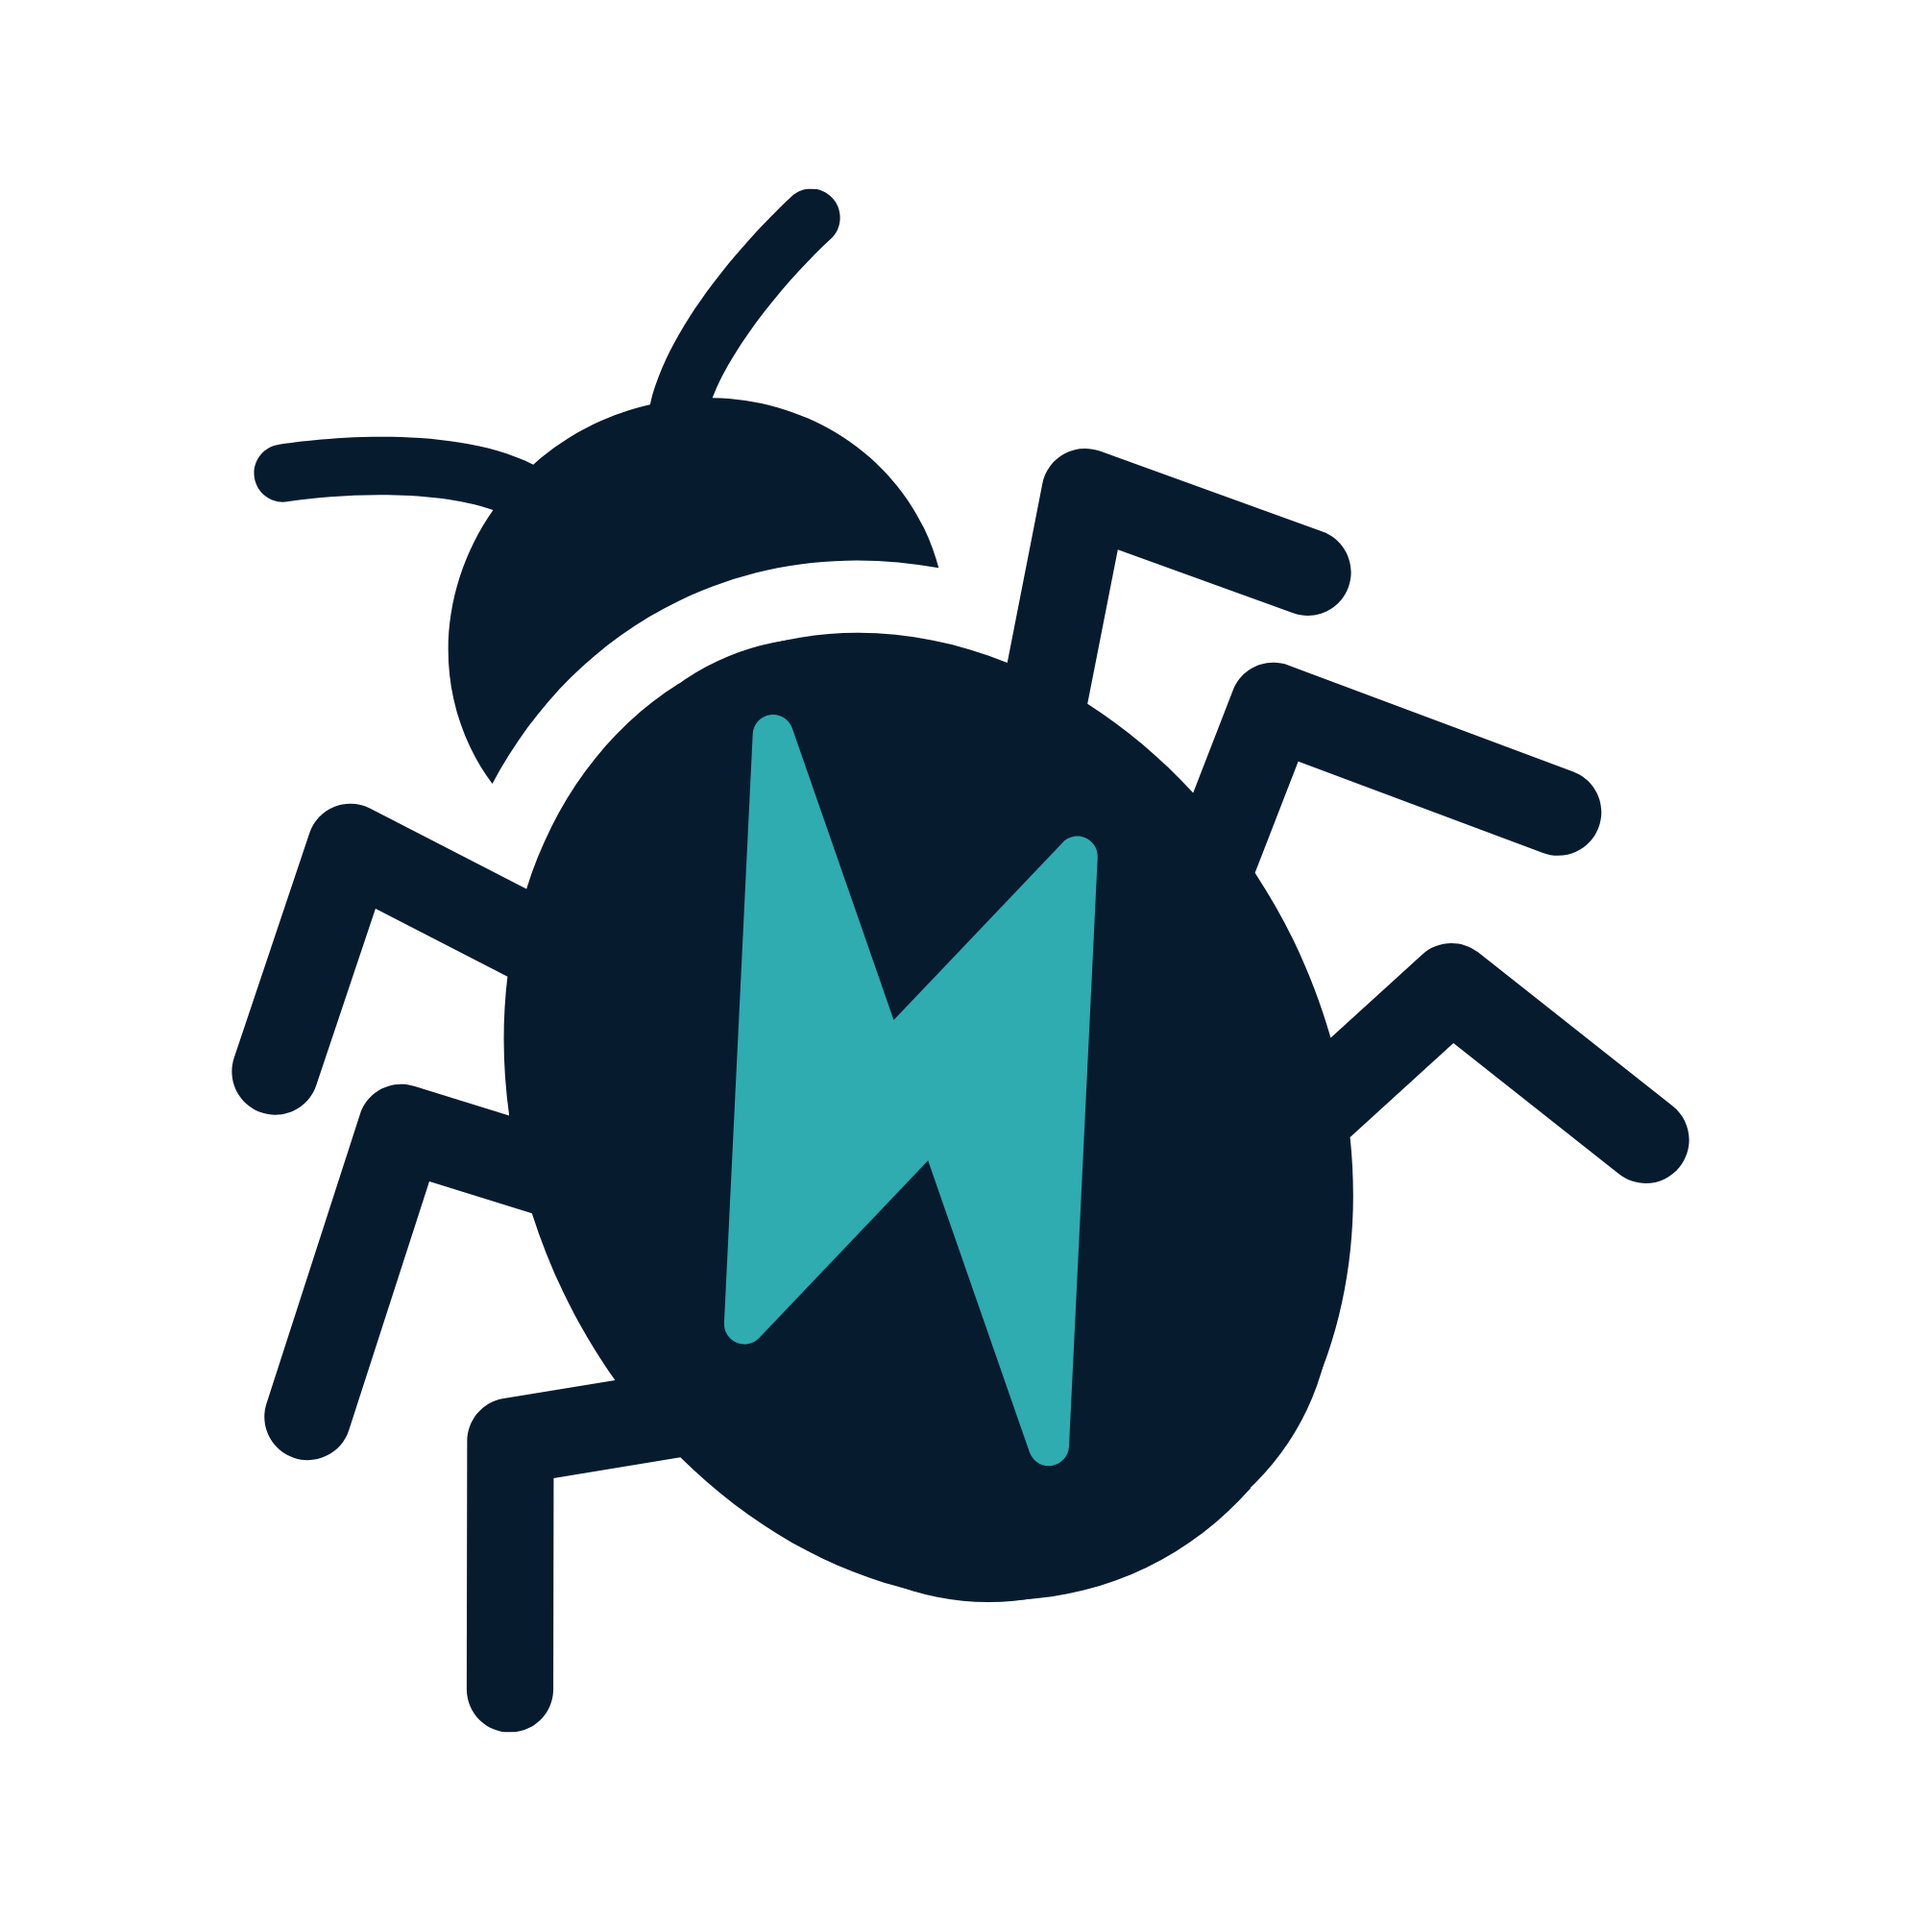
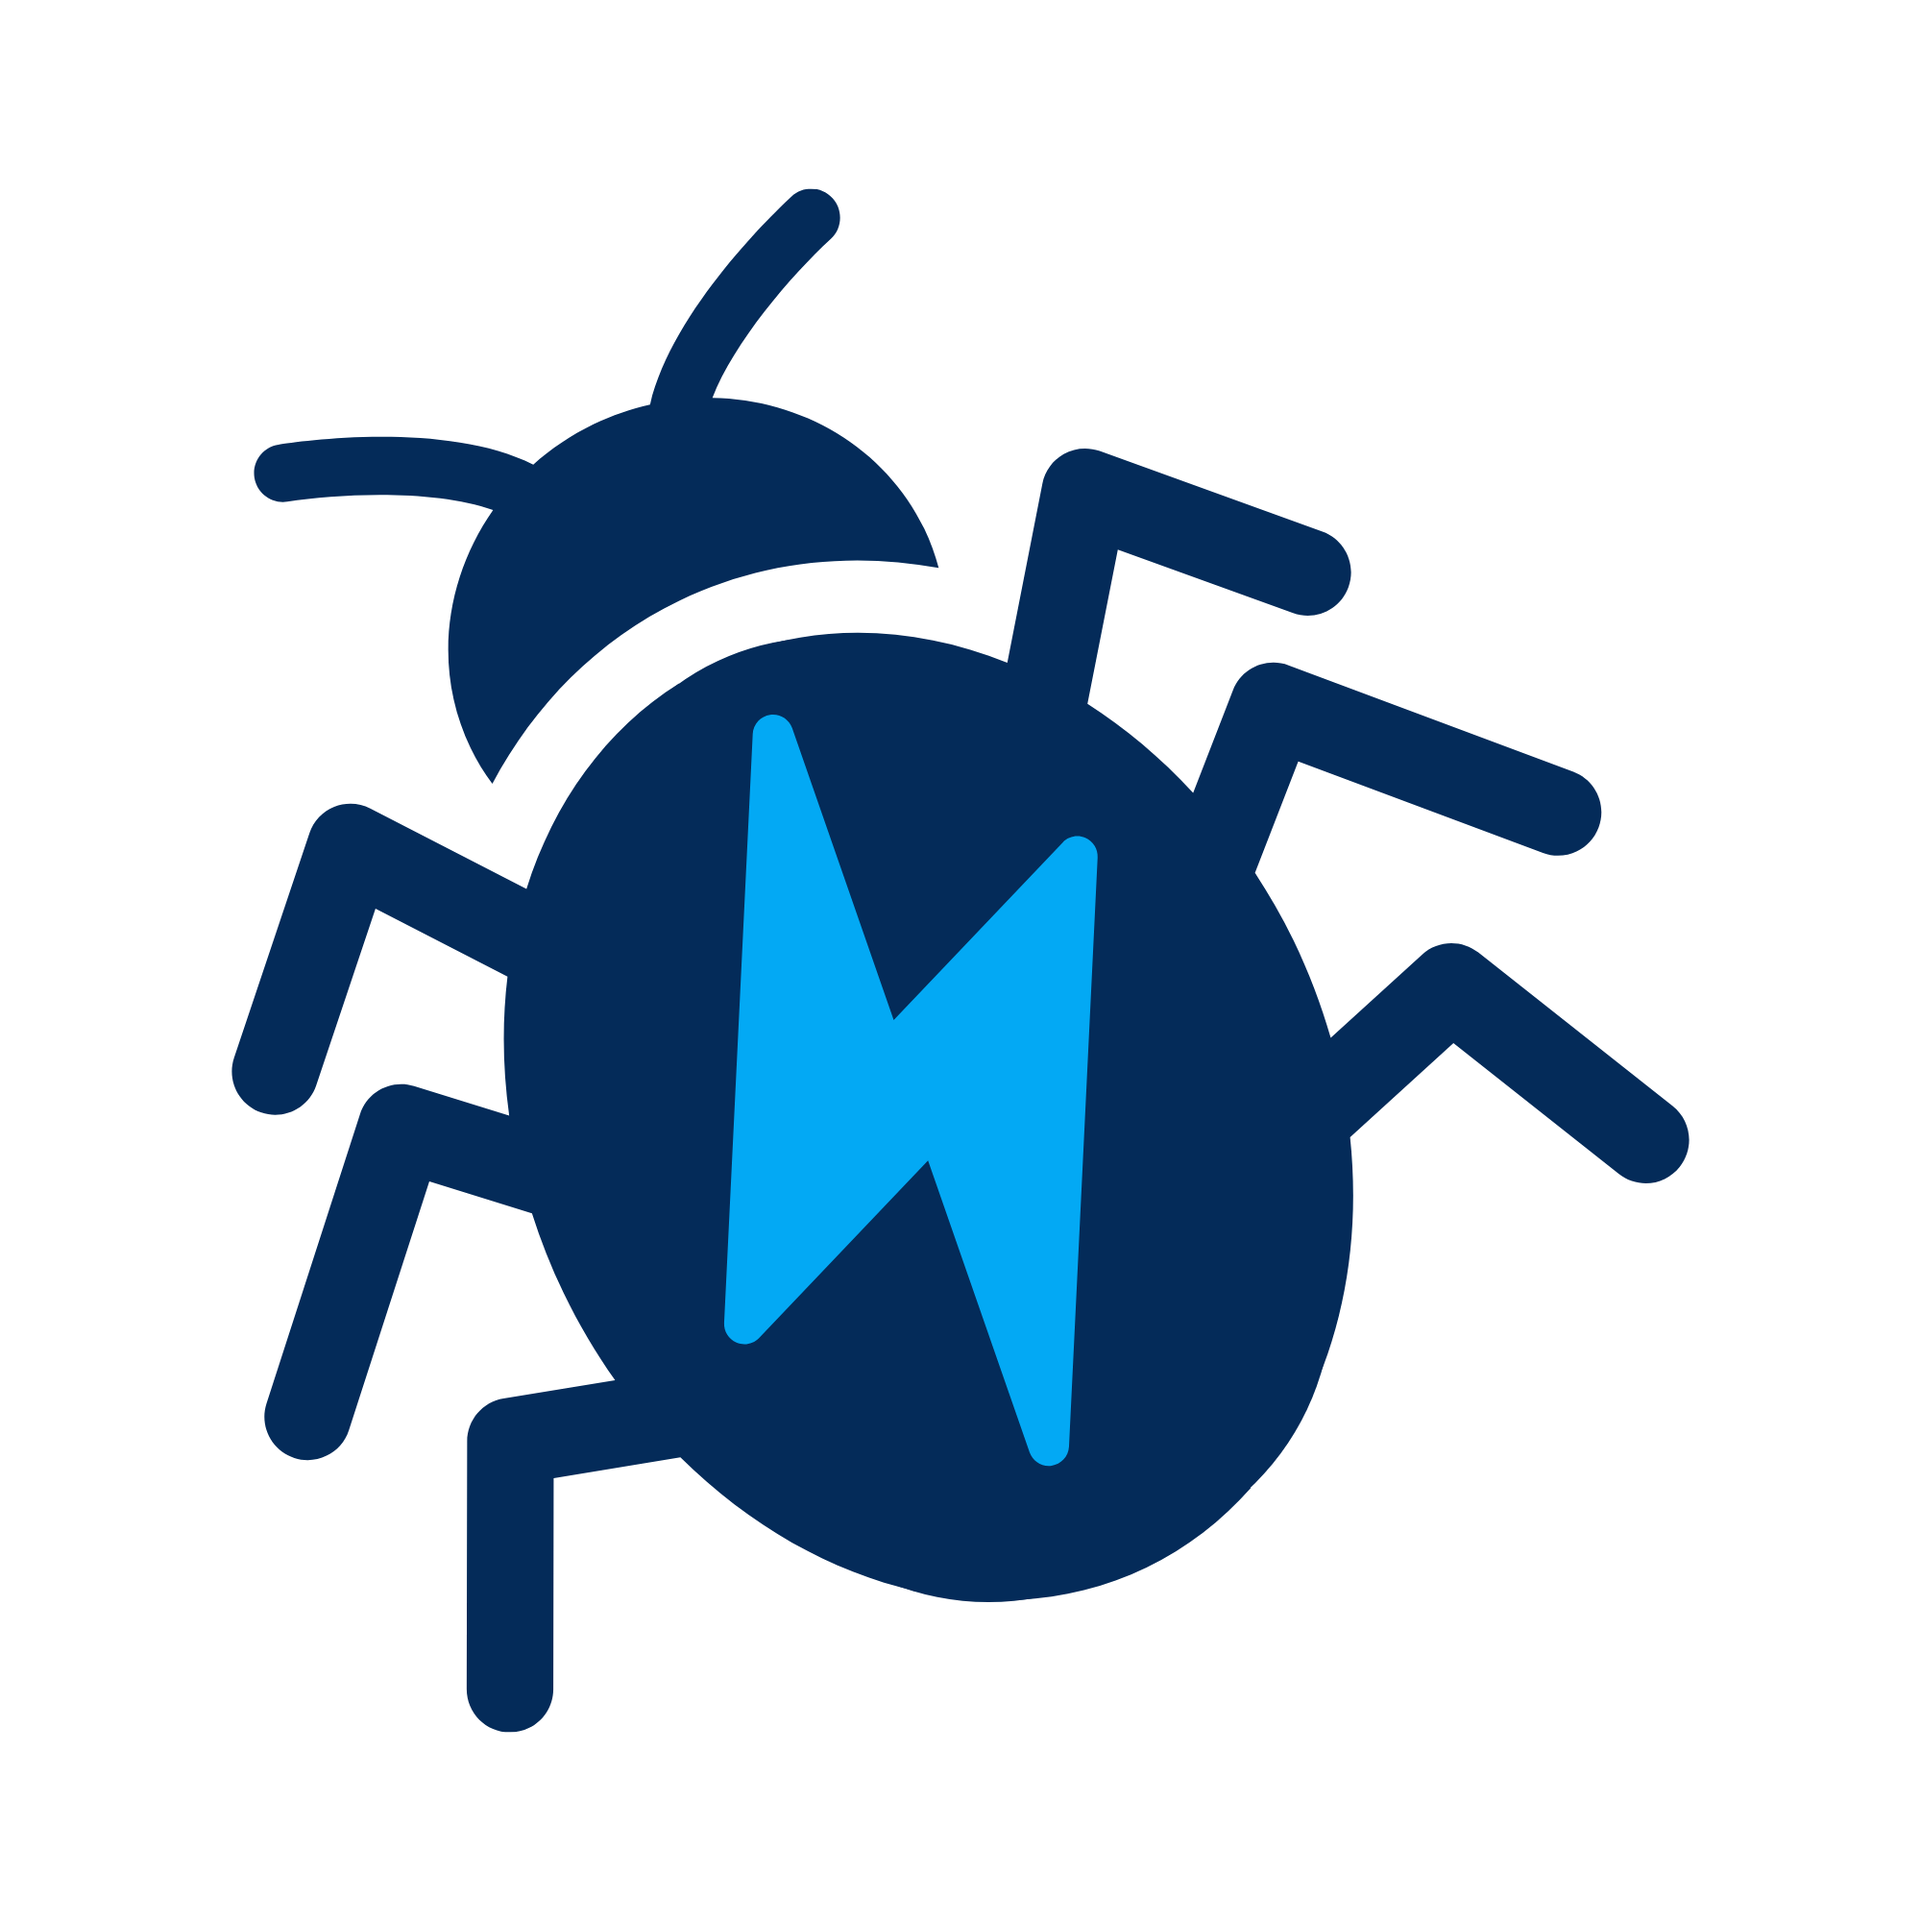
refactor: update app theme colors and simplify GitHub feedback initialization

Changed region(s): [[0.124, 0.093, 0.899, 0.899]]

diff --git a/example/lib/app_theme.dart b/example/lib/app_theme.dart
@@ -1,11 +1,11 @@
 import 'package:flutter/material.dart';
 
-const _brandNavy = Color(0xFF0B1B2B);
-const _brandNavyDeep = Color(0xFF071521);
-const _brandSurface = Color(0xFF11263A);
-const _brandTeal = Color(0xFF1ED0B6);
-const _brandTealSoft = Color(0xFF7FE8D7);
-const _brandTextMuted = Color(0xFF8AA0B4);
+const _brandNavy = Color(0xFF042B59);
+const _brandNavyDeep = Color(0xFF031B36);
+const _brandSurface = Color(0xFF0a3d73);
+const _brandTeal = Color(0xFF027DFD);
+const _brandOrange = Color(0xFFF15B38);
+const _brandBorder = Color(0xFF0553B1);
 
 /// App-level theme for the example.
 ///
@@ -23,16 +23,16 @@ ThemeData buildAppTheme() {
     scaffoldBackgroundColor: _brandNavy,
     colorScheme: const ColorScheme.dark(
       primary: _brandTeal,
-      onPrimary: _brandNavyDeep,
-      secondary: _brandTealSoft,
-      onSecondary: _brandNavyDeep,
+      onPrimary: Colors.white,
+      secondary: _brandBorder,
+      onSecondary: Colors.white,
       surface: _brandSurface,
       onSurface: Colors.white,
-      onSurfaceVariant: _brandTextMuted,
-      error: Color(0xFFFF6B6B),
+      onSurfaceVariant: Color(0xFFD0D8E0),
+      error: _brandOrange,
       onError: Colors.white,
     ),
-    extensions: const [ExampleThemeTokens(primarySoft: _brandTealSoft)],
+    extensions: const [ExampleThemeTokens(primarySoft: _brandOrange)],
     textTheme: textTheme,
     appBarTheme: const AppBarTheme(
       backgroundColor: _brandNavy,
@@ -57,14 +57,15 @@ ThemeData buildAppTheme() {
         fontSize: 20,
       ),
       contentTextStyle: textTheme.bodyMedium?.copyWith(
-        color: _brandTextMuted,
+        color: Color(0xFFD0D8E0),
         fontWeight: FontWeight.w500,
       ),
     ),
     inputDecorationTheme: InputDecorationTheme(
       filled: true,
       fillColor: _brandNavyDeep,
-      hintStyle: const TextStyle(color: _brandTextMuted),
+      hintStyle: const TextStyle(color: Color(0xFFD0D8E0)),
+      labelStyle: const TextStyle(color: Colors.white),
       contentPadding: const EdgeInsets.symmetric(horizontal: 16, vertical: 14),
       border: OutlineInputBorder(
         borderRadius: BorderRadius.circular(14),
@@ -72,19 +73,20 @@ ThemeData buildAppTheme() {
       ),
       enabledBorder: OutlineInputBorder(
         borderRadius: BorderRadius.circular(14),
-        borderSide: const BorderSide(color: Color(0xFF1E3550), width: 1),
+        borderSide: const BorderSide(color: _brandBorder, width: 1),
       ),
       focusedBorder: OutlineInputBorder(
         borderRadius: BorderRadius.circular(14),
-        borderSide: const BorderSide(color: _brandTeal, width: 1.5),
+        borderSide: const BorderSide(color: _brandOrange, width: 1.5),
       ),
     ),
     filledButtonTheme: FilledButtonThemeData(
       style: FilledButton.styleFrom(
         backgroundColor: _brandTeal,
-        foregroundColor: _brandNavyDeep,
+        foregroundColor: Colors.white,
         padding: const EdgeInsets.symmetric(horizontal: 22, vertical: 14),
         textStyle: const TextStyle(
+          color: Colors.white,
           fontWeight: FontWeight.w700,
           fontSize: 14,
           letterSpacing: 0.3,
@@ -94,7 +96,7 @@ ThemeData buildAppTheme() {
     ),
     textButtonTheme: TextButtonThemeData(
       style: TextButton.styleFrom(
-        foregroundColor: _brandTextMuted,
+        foregroundColor: _brandOrange,
         padding: const EdgeInsets.symmetric(horizontal: 18, vertical: 14),
         textStyle: const TextStyle(fontWeight: FontWeight.w600, fontSize: 14),
       ),

diff --git a/example/lib/main.dart b/example/lib/main.dart
@@ -21,31 +21,16 @@ void main() {
   );
 
   if (_shakeFeedbackEnabled) {
-    final githubToken = const String.fromEnvironment('GITHUB_FEEDBACK_TOKEN');
-
-    if (githubToken.trim().isNotEmpty) {
-      ZapBugsController.init(
-        contextProvider: () => _navigatorKey.currentContext,
-        service: GitHubFeedbackService(
-          GitHubFeedbackConfig(
-            token: githubToken,
-            owner: 'my-org',
-            repo: 'my-app',
-          ),
+    ZapBugsController.init(
+      contextProvider: () => _navigatorKey.currentContext,
+      service: GitHubFeedbackService(
+        GitHubFeedbackConfig(
+          token: const String.fromEnvironment('GITHUB_FEEDBACK_TOKEN'),
+          owner: 'my-org',
+          repo: 'my-app',
         ),
-      );
-    } else {
-      ZapBugsController.init(
-        contextProvider: () => _navigatorKey.currentContext,
-        onSubmit: (submission, screenshotBytes) async {
-          debugPrint(
-            '[zap_bugs example] ${submission.description} '
-            '(reporter: ${submission.reporter}, '
-            'screenshot: ${screenshotBytes?.length ?? 0} bytes)',
-          );
-        },
-      );
-    }
+      ),
+    );
   }
 }
 
